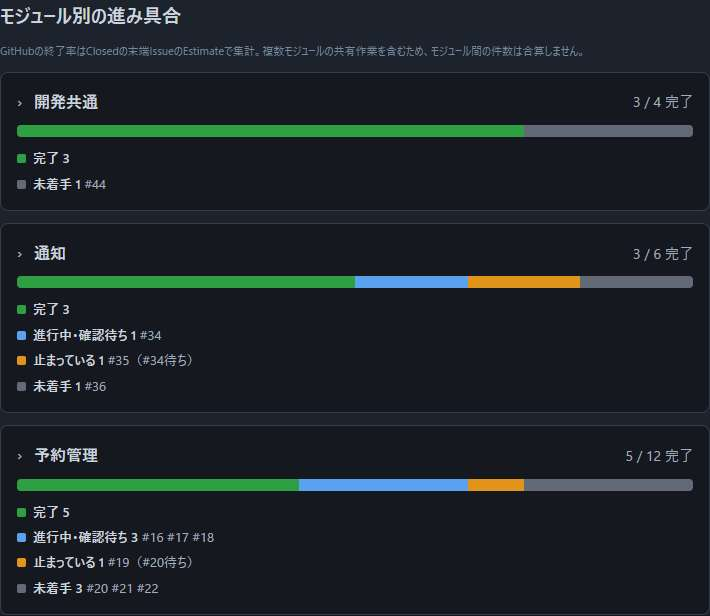
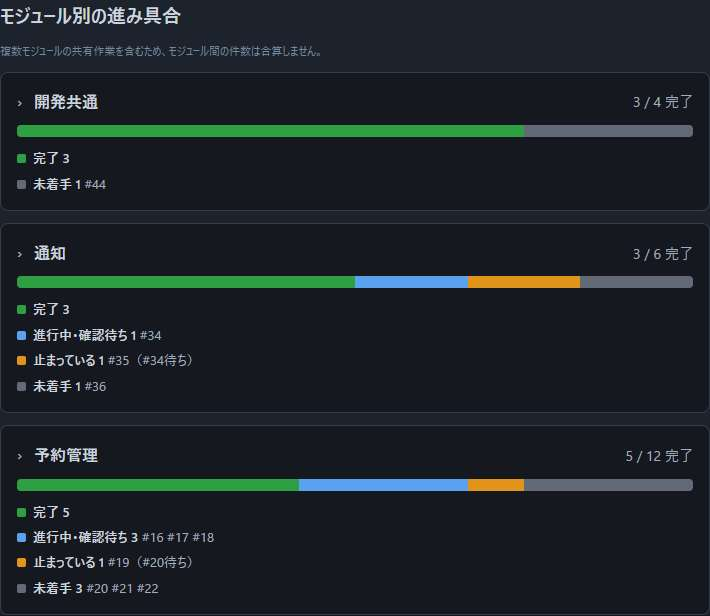
fix(board): 進み具合の帯の自己レビューで見つけた点を直す
- 仕様の終了率の項を、リリースと期間の行に限る。帯の定義を、既存の分け方の近くへ移す。
- モジュールの上の古い注記（Estimateで集計）を外し、変更後の画像を撮り直す。
- 帯は凡例が同じ内容を示すため、読み上げない。使わなくなった題名の引数を外す。
- 担当者のいない作業中を進行中に数える判定のテストを足す。

Refs #96

Changed region(s): [[0.0, 0.0617, 0.8056, 0.0925]]

diff --git a/docs/specification.md b/docs/specification.md
@@ -142,7 +142,20 @@ private browsingの終了やブラウザデータの削除で失われる。
   該当ラベルがなければ「モジュール未分類」、ラベル情報を持たない旧snapshotは「モジュール情報未取得」と表示する。
 - モジュールごとに、その範囲の目標・リリース・作業を表示する。
   目標やMilestoneが複数モジュールにまたがる場合は、そのモジュールの作業だけを集計する。
-- GitHubの終了率は、取得したrepository内の見積設定済みの末端Issueを対象に、ClosedのEstimate合計を集計対象のEstimate合計で割り、整数に丸める。
+- イテレーションタブのモジュールと目標の行には、配下の作業を状態で分けた帯と、完了した件数と全体の件数（例：「8 / 32 完了」）を表示する。
+  状態は、上の分け方を次の4つにまとめる。
+  - 完了（緑）：完了・Closed。
+  - 進行中・確認待ち（青）：作業中と確認待ち。要対応のうち、すべてのProjectのStatusがIn Progressの作業も含む。
+  - 止まっている（橙）：開いた前提（blocked by）がある作業。作業中や確認待ちでも、開いた前提があれば止まっているとする。
+  - 未着手（灰）：上のどれにも当てはまらない作業。
+
+  帯は件数で分け、Estimateの有無にかかわらず、すべての作業を数える。
+
+  モジュールの行には、完了以外の状態ごとに、件数と作業の番号を添える。
+  止まっている作業には、待っている前提を「#44（#16待ち）」の形で添える。
+  番号は状態ごとに15件までとし、超える分は件数で示す。
+  目標の行は、帯と件数だけを表示する。
+- リリースと期間の行の終了率は、取得したrepository内の見積設定済みの末端Issueを対象に、ClosedのEstimate合計を集計対象のEstimate合計で割り、整数に丸める。
   集計対象に未終了がある間は最大99%とする。
   親Issueは加算しない。
 
@@ -296,22 +309,6 @@ GitHubで計画しているプロジェクトだけに出す。
 
 説明文、完了した範囲と残る範囲、目標のEstimateの内訳、作業の完了条件の達成率、親子Issueの階層は詳細で確認する。
 一覧では状態を短いラベル、完了率を数値とバーで表示する。
-
-GitHubで計画しているプロジェクトでは、イテレーションタブのモジュールと目標の行に、配下の作業を状態で分けた帯を表示する。
-帯は、完了（緑）、進行中・確認待ち（青）、止まっている（橙）、未着手（灰）の4色とする。
-行の右に、完了した件数と全体の件数を「8 / 32 完了」の形で表示する。
-帯は件数で分け、Estimateの有無にかかわらず、すべての作業を数える。
-
-- 完了：ClosedまたはStatusがDoneの作業。
-- 止まっている：前提（blocked by）が未完了の作業。作業中や確認待ちでも、前提が未完了なら止まっているとする。
-- 進行中・確認待ち：Statusが「In Progress」の作業と、承認待ちのPRがある作業。
-- 未着手：上のどれにも当てはまらない作業。
-
-モジュールの行には、完了以外の状態ごとに、件数と作業の番号を添える。
-止まっている作業には、待っている前提を「#44（#16待ち）」の形で添える。
-番号は状態ごとに15件までとし、超える分は件数で示す。
-目標の行は、帯と件数だけを表示する。
-リリースと期間の行は、Estimateによる完了率で表示する。
 
 Estimateは各作業の見積作業量を表し、1ポイントを1日として扱う。
 0より大きい数値を入力し、0.5などの小数も受け付ける。
